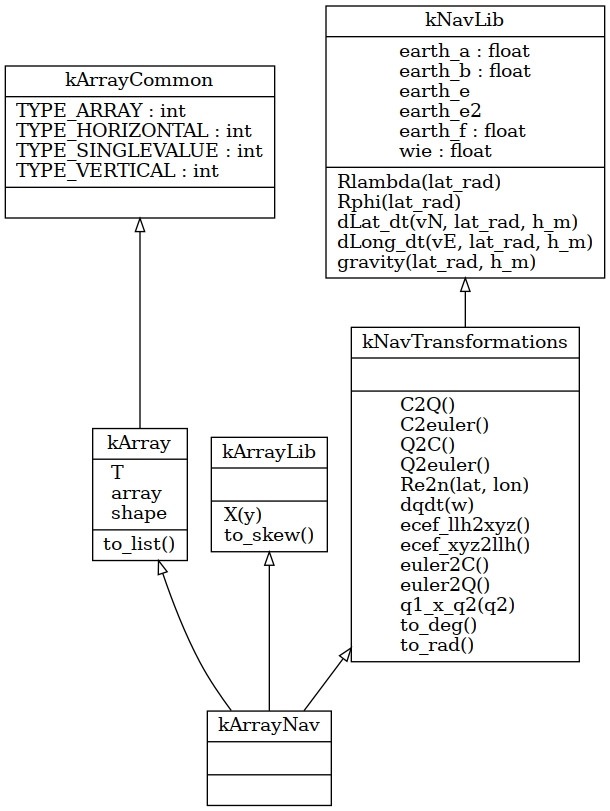
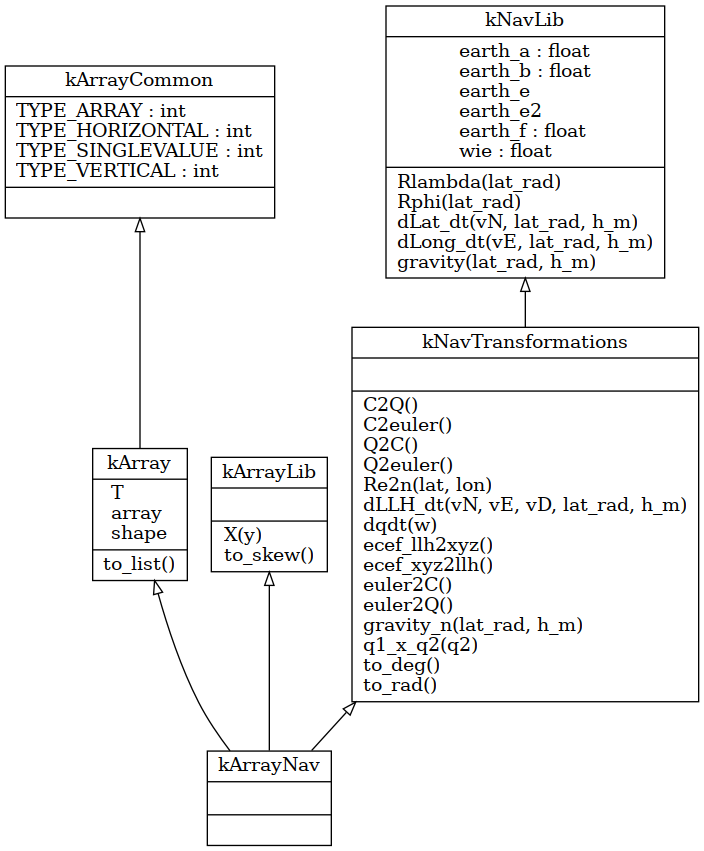
documentation

diff --git a/README.md b/README.md
@@ -31,6 +31,10 @@
         representations:](#transformation-among-earth-centered-earth-fixed-representations)
     -   [<span class="toc-section-number">2.12</span> derivative of
         quaternions:](#derivative-of-quaternions)
+    -   [<span class="toc-section-number">2.13</span> local gravity in
+        geografic frame:](#local-gravity-in-geografic-frame)
+    -   [<span class="toc-section-number">2.14</span> derivative of
+        lat/long/alt:](#derivative-of-latlongalt)
 -   [<span class="toc-section-number">3</span> How to use](#how-to-use)
 
 # Introduction
@@ -117,6 +121,14 @@ This is the standard sintax to create a matrix. The boolean parameter
 ## derivative of quaternions:
 
     dqdt = qi2b.dqdt( w_ib_b )
+
+## local gravity in geografic frame:
+
+    local_gravity_n = gravity_n ( latitude, altitude )
+
+## derivative of lat/long/alt:
+
+    dLLHdt = dLLH_dt(...)
 
 # How to use
 
